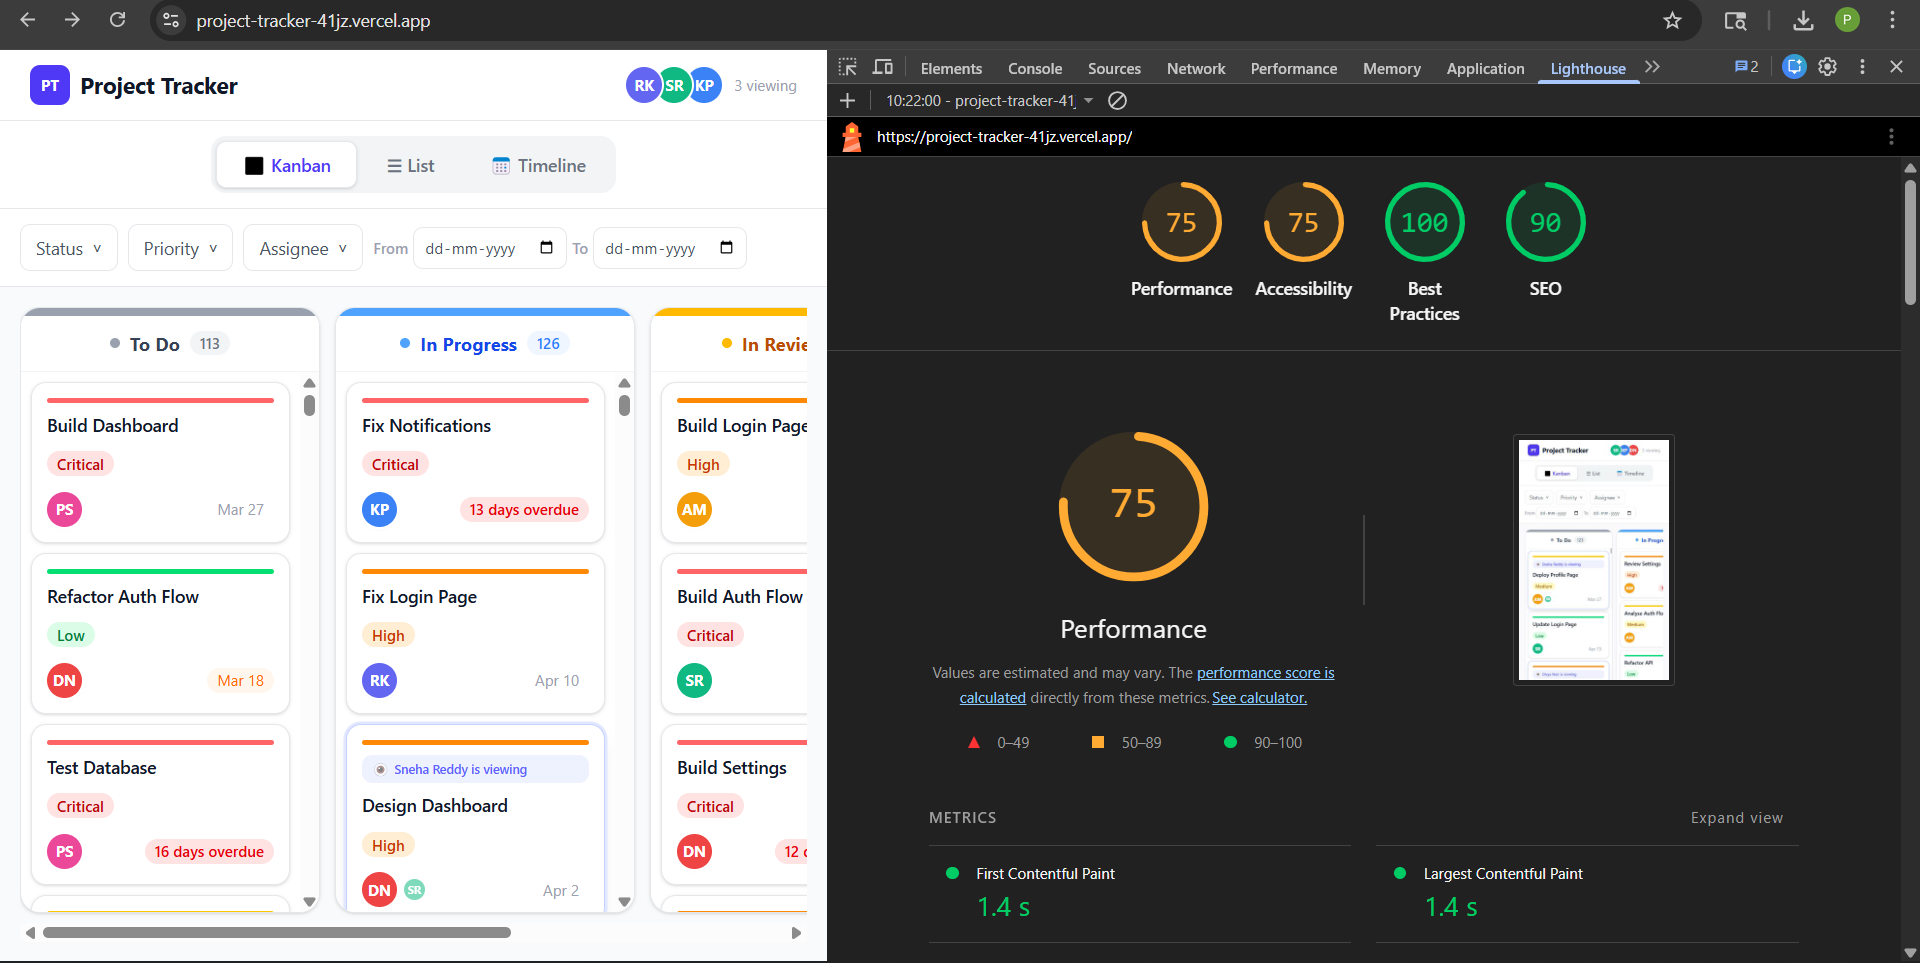
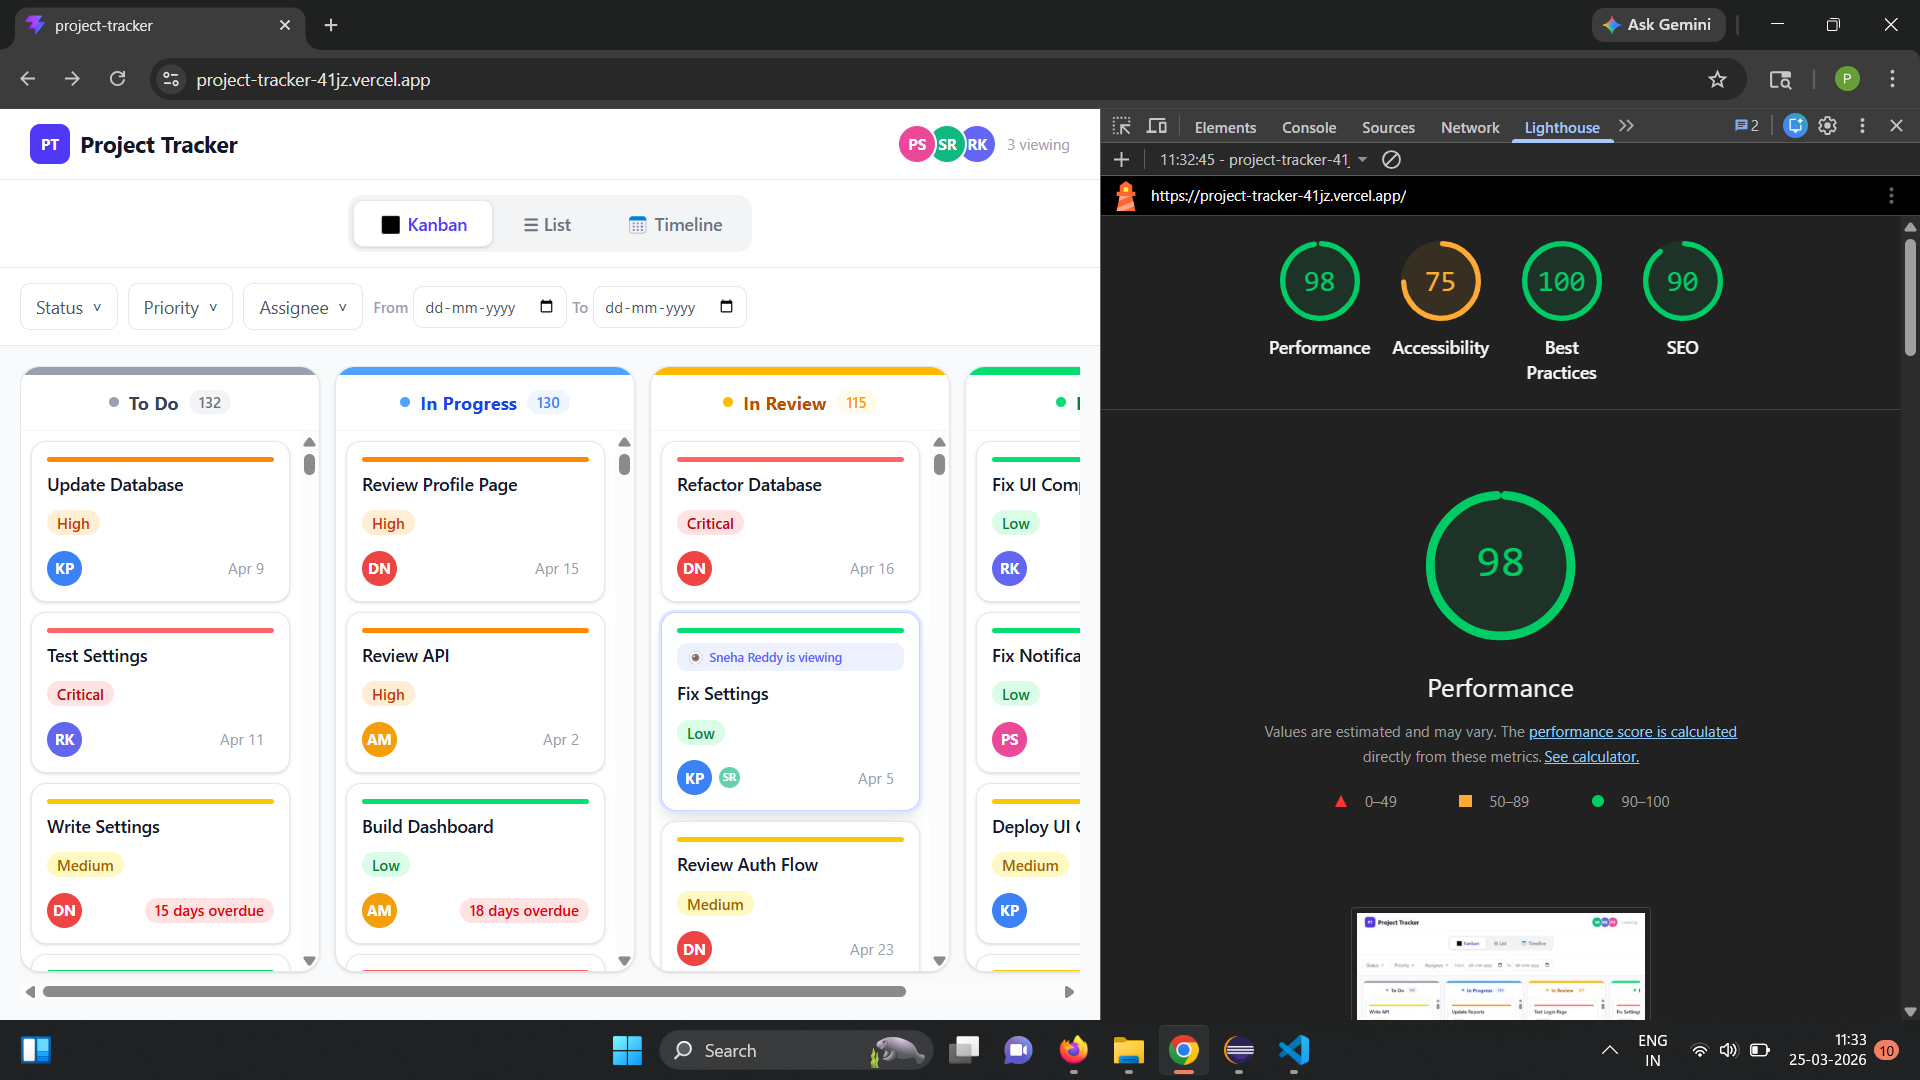
lighthouse screenshot

diff --git a/README.md b/README.md
@@ -1,73 +1,107 @@
-# React + TypeScript + Vite
+# Project Tracker
 
-This template provides a minimal setup to get React working in Vite with HMR and some ESLint rules.
+A multi-view project management app built with React + TypeScript + Tailwind CSS.
 
-Currently, two official plugins are available:
+Live: [https://project-tracker-41jz.vercel.app/]
+Repo: [https://github.com/preethi6379/project-tracker]
 
-- [@vitejs/plugin-react](https://github.com/vitejs/vite-plugin-react/blob/main/packages/plugin-react) uses [Oxc](https://oxc.rs)
-- [@vitejs/plugin-react-swc](https://github.com/vitejs/vite-plugin-react/blob/main/packages/plugin-react-swc) uses [SWC](https://swc.rs/)
+---
 
-## React Compiler
+## Getting Started
 
-The React Compiler is not enabled on this template because of its impact on dev & build performances. To add it, see [this documentation](https://react.dev/learn/react-compiler/installation).
-
-## Expanding the ESLint configuration
-
-If you are developing a production application, we recommend updating the configuration to enable type-aware lint rules:
-
-```js
-export default defineConfig([
-  globalIgnores(['dist']),
-  {
-    files: ['**/*.{ts,tsx}'],
-    extends: [
-      // Other configs...
-
-      // Remove tseslint.configs.recommended and replace with this
-      tseslint.configs.recommendedTypeChecked,
-      // Alternatively, use this for stricter rules
-      tseslint.configs.strictTypeChecked,
-      // Optionally, add this for stylistic rules
-      tseslint.configs.stylisticTypeChecked,
-
-      // Other configs...
-    ],
-    languageOptions: {
-      parserOptions: {
-        project: ['./tsconfig.node.json', './tsconfig.app.json'],
-        tsconfigRootDir: import.meta.dirname,
-      },
-      // other options...
-    },
-  },
-])
+```bash
+git clone https://github.com/preethi6379/project-tracker.git
+cd project-tracker
+npm install
+npm run dev
 ```
 
-You can also install [eslint-plugin-react-x](https://github.com/Rel1cx/eslint-react/tree/main/packages/plugins/eslint-plugin-react-x) and [eslint-plugin-react-dom](https://github.com/Rel1cx/eslint-react/tree/main/packages/plugins/eslint-plugin-react-dom) for React-specific lint rules:
+Open `http://localhost:5173`. That's it.
 
-```js
-// eslint.config.js
-import reactX from 'eslint-plugin-react-x'
-import reactDom from 'eslint-plugin-react-dom'
+---
 
-export default defineConfig([
-  globalIgnores(['dist']),
-  {
-    files: ['**/*.{ts,tsx}'],
-    extends: [
-      // Other configs...
-      // Enable lint rules for React
-      reactX.configs['recommended-typescript'],
-      // Enable lint rules for React DOM
-      reactDom.configs.recommended,
-    ],
-    languageOptions: {
-      parserOptions: {
-        project: ['./tsconfig.node.json', './tsconfig.app.json'],
-        tsconfigRootDir: import.meta.dirname,
-      },
-      // other options...
-    },
-  },
-])
+## What's Inside
+
+Three views of the same 500-task dataset:
+
+- **Kanban** — drag cards between columns
+- **List** — sortable table, change status inline
+- **Timeline** — tasks as bars across the current month
+
+Filter by status, priority, assignee, and date range. Filters sync to the URL so you can share a filtered view and the other person sees the exact same thing.
+
+---
+
+## State Management — Why Zustand
+
+Three views share the same task data. When a card is dragged to a new column in Kanban, the List and Timeline should reflect that immediately. With Context you'd need a Provider wrapping everything and either prop drilling or multiple contexts. Zustand lets any component call `useTaskStore()` and read or write directly — no wiring, no unnecessary re-renders. Tasks, filters, active view, and live presence all live in one store. It made the multi-view sync straightforward.
+
+---
+
+## The Hard Parts
+
+### Drag and Drop
+
+No libraries. Built with Pointer Events — `onPointerDown`, `onPointerMove`, `onPointerUp`.
+
+The main challenge was smoothness. Storing cursor position in `useState` meant every mouse move triggered a React re-render, which made the ghost card lag. The fix: move the ghost card using direct DOM manipulation via `useRef`. The position updates bypass React entirely and run at full frame rate.
+
+Drop detection works by putting a `data-status` attribute on each column div. On pointer up, `document.elementFromPoint(x, y)` finds what's under the cursor. If it has `data-status`, the card moves there. If not (dropped outside any column), nothing changes and the card stays — snap back with zero extra code.
+
+The placeholder that holds the dragged card's space in the column is a fixed-height dashed div, same dimensions as the real card. The column layout never shifts because the space stays occupied the whole time.
+
+---
+
+### Virtual Scrolling
+
+No libraries. A custom `useVirtualScroll` hook.
+
+Only the rows visible on screen get rendered, plus a 5-row buffer above and below. Everything else is not in the DOM.
+
 ```
+startIndex = Math.floor(scrollTop / rowHeight) - buffer
+endIndex   = startIndex + Math.ceil(containerHeight / rowHeight) + buffer
+```
+
+The outer container is set to the full height of all 500 rows (`500 × 56px = 28,000px`) so the scrollbar looks correct. Rendered rows sit inside a div positioned absolutely at `startIndex × rowHeight` from the top, so they appear at exactly the right place. At any point only ~15 rows exist in the DOM instead of 500.
+
+Scroll position is tracked via a native `scroll` event listener with `{ passive: true }` so it doesn't block the main thread. Container height changes are handled with a `ResizeObserver`.
+
+---
+
+### Timeline View
+
+Tasks with a start date and due date render as a colored bar. Tasks with no start date render as a dot on their due date. Both are positioned absolutely:
+
+```
+left  = (startDay - 1) × DAY_WIDTH
+width = (endDay - startDay + 1) × DAY_WIDTH
+```
+
+The sidebar (task names) and the timeline grid scroll together. Two refs point to each side, and when one scrolls vertically the other's `scrollTop` is set to match — keeps them in sync without any state.
+
+---
+
+### Live Presence
+
+A `PresenceSimulator` class holds 3 active fake users. A `setInterval` fires every 3 seconds, picks one user at random, and moves them to a different task. Components subscribe via a callback. The store's `activeUsers` array updates, task cards check if any user's `taskId` matches theirs, and show a pulsing avatar if so. No backend, no WebSocket — just an interval and a store.
+
+---
+
+## Seed Data
+
+`generateTasks(500)` in `src/utils/seedData.ts` creates 500 tasks with randomised titles, assignees (6 fixed users), priorities, statuses, and dates. About 20% of tasks have no start date to test the timeline dot case. Due dates range from 20 days in the past to 30 days ahead so there are always overdue tasks in the data.
+
+---
+
+## Lighthouse Score
+
+![Lighthouse Score](./Lighthouse.png)
+
+Run on desktop, production build (`npm run build && npm run preview`).
+
+---
+
+## One Thing I'd Refactor
+
+The virtual scrolling hook assumes every row is exactly 56px tall. If rows ever became variable height (expandable rows, multi-line titles), the position math breaks. I'd replace the fixed height assumption with a measured position map built from a `ResizeObserver` on each rendered row. More work, but it handles any row size correctly.
